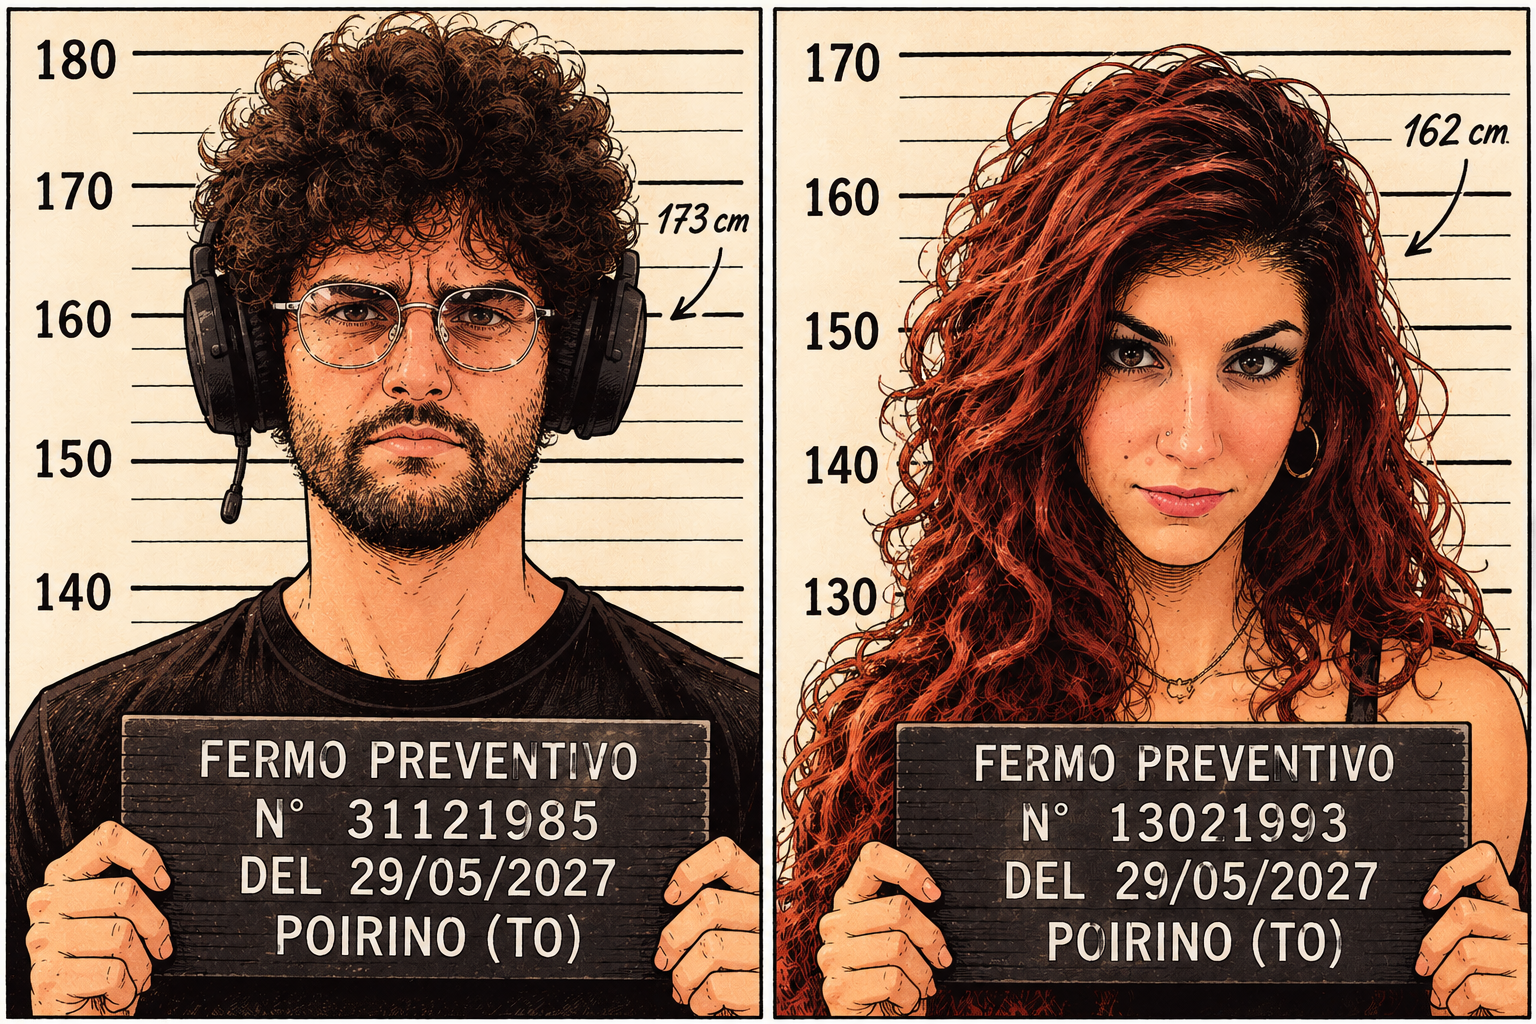
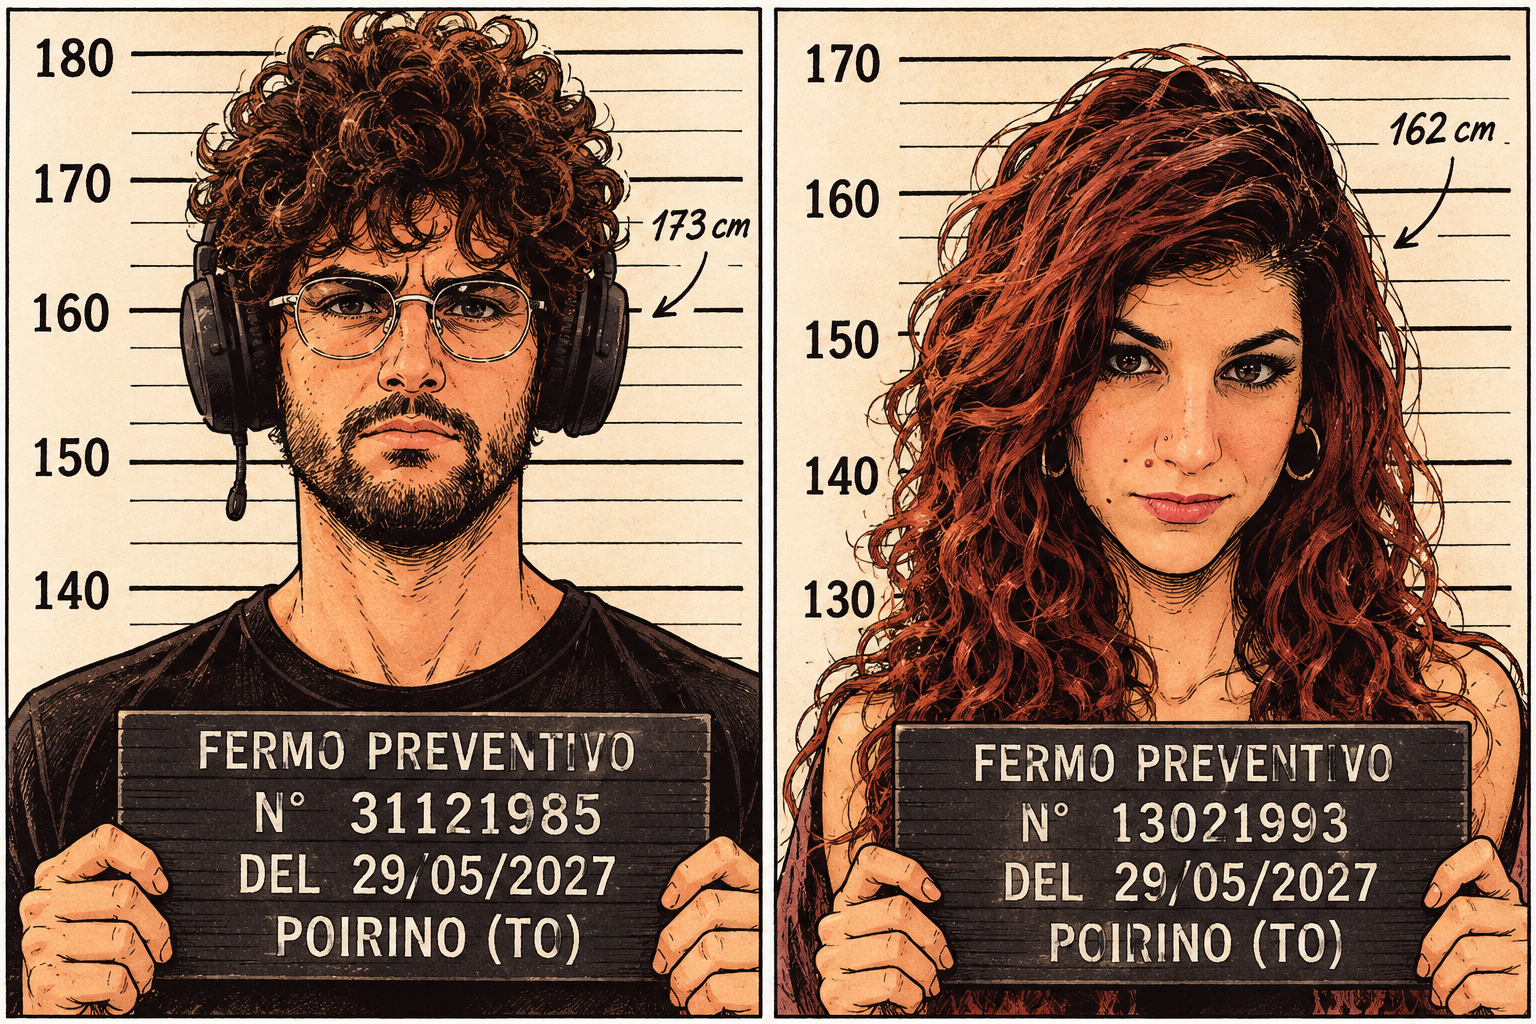
Restore wedding illustrations and correct hero artwork

diff --git a/src/components/Info.tsx b/src/components/Info.tsx
@@ -1,6 +1,7 @@
 'use client';
 
 import React from 'react';
+import Image from 'next/image';
 import { Instagram, Star } from 'lucide-react';
 import Countdown from './Countdown';
 import Providers from './Providers';
@@ -113,6 +114,16 @@ const Info: React.FC = () => {
           </ol>
         </div>
       </section>
+
+      <figure className="mx-auto w-full max-w-5xl px-5 sm:px-8">
+        <Image
+          src="/images/rock-wedding.jpg"
+          alt="Illustrazione degli sposi mentre festeggiano insieme"
+          width={1600}
+          height={1131}
+          className="h-auto w-full"
+        />
+      </figure>
 
       <section id="musica" className="mx-auto grid w-full max-w-6xl gap-8 px-5 sm:px-8 md:grid-cols-2 md:items-start md:gap-16" aria-labelledby="music-title">
         <div>

diff --git a/src/components/BeerStories.tsx b/src/components/BeerStories.tsx
@@ -1,5 +1,6 @@
 'use client';
 
+import Image from 'next/image';
 import { useState } from 'react';
 import { ChevronDown } from 'lucide-react';
 
@@ -70,6 +71,15 @@ export default function BeerStories() {
           );
         })}
       </div>
+      <figure className="mx-auto mt-10 max-w-5xl overflow-hidden rounded-2xl bg-white">
+        <Image
+          src="/images/bikers.jpg"
+          alt="Caricatura di Angie e Fabio in moto, accompagnati da un gatto"
+          width={1600}
+          height={1125}
+          className="h-auto w-full"
+        />
+      </figure>
       <button
         type="button"
         aria-expanded={showAllStories}
